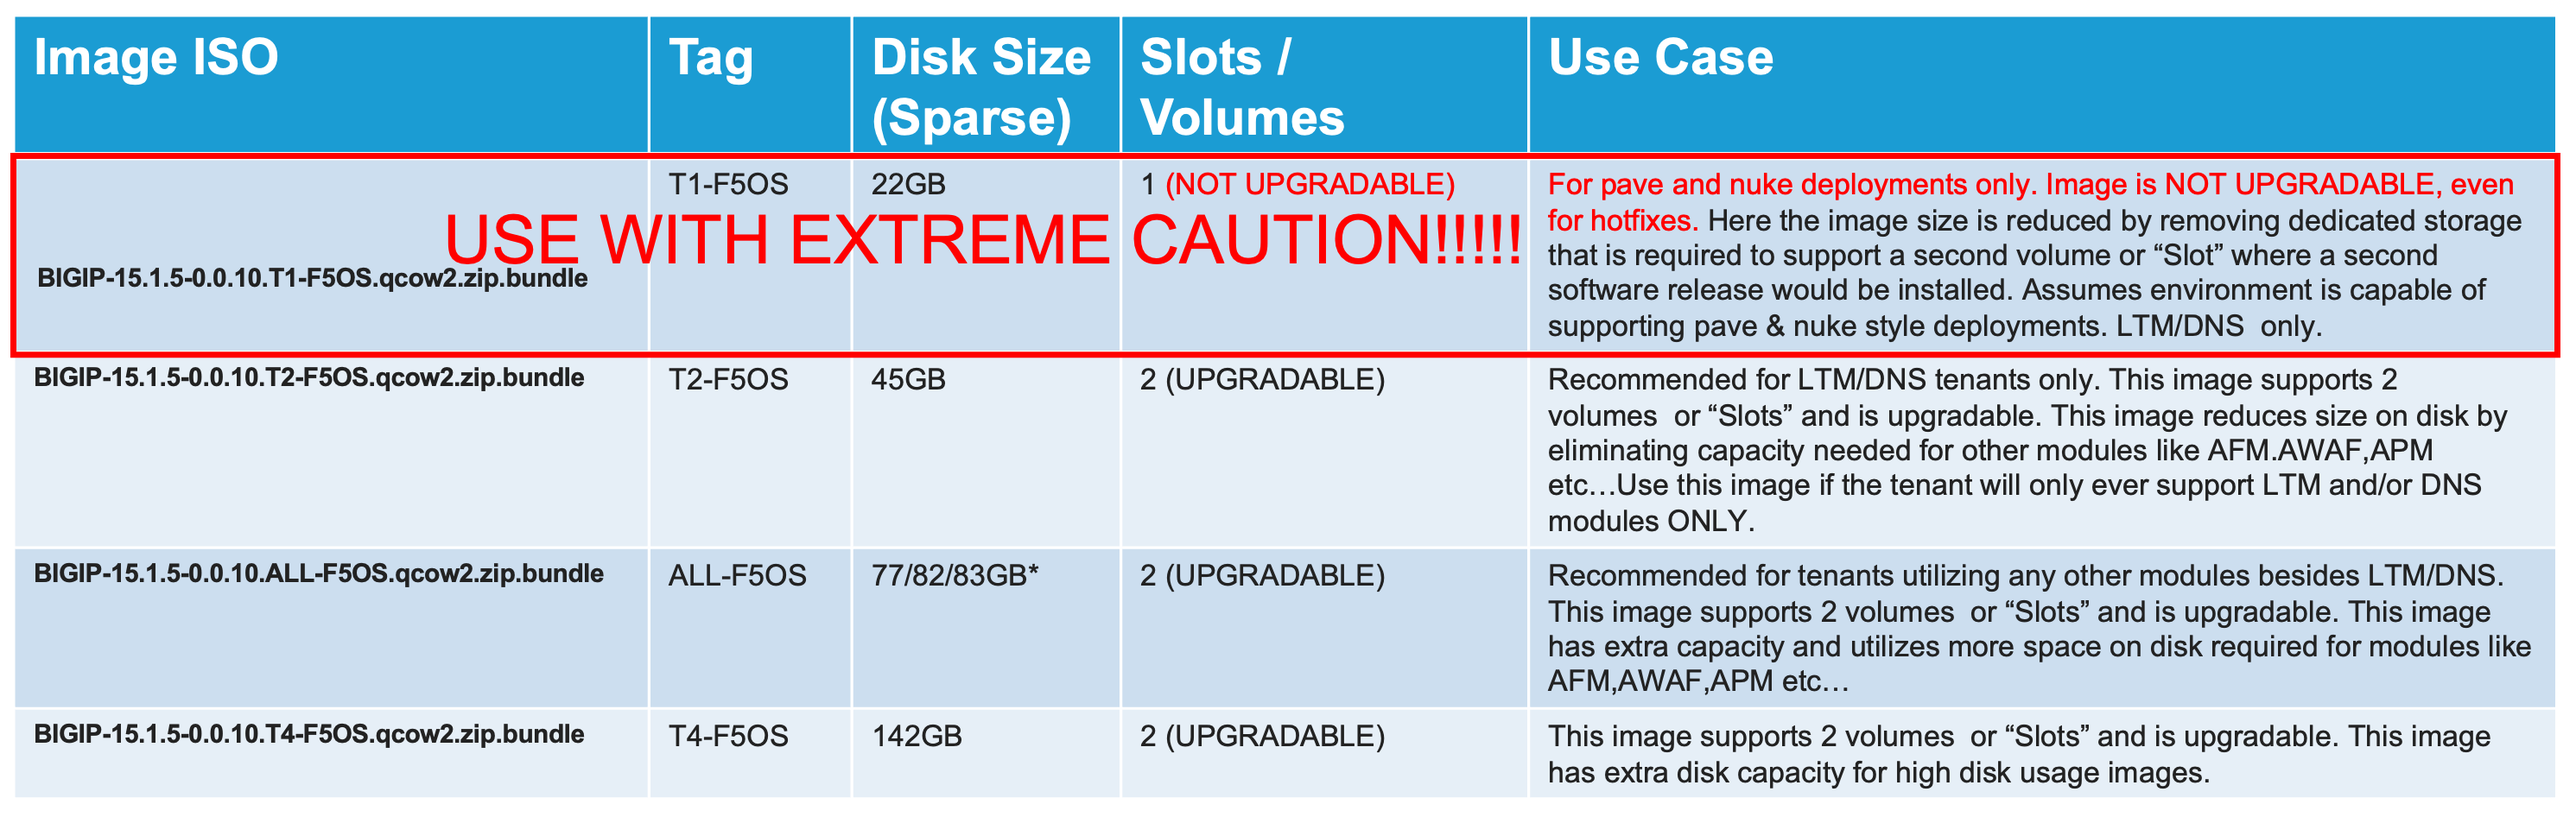
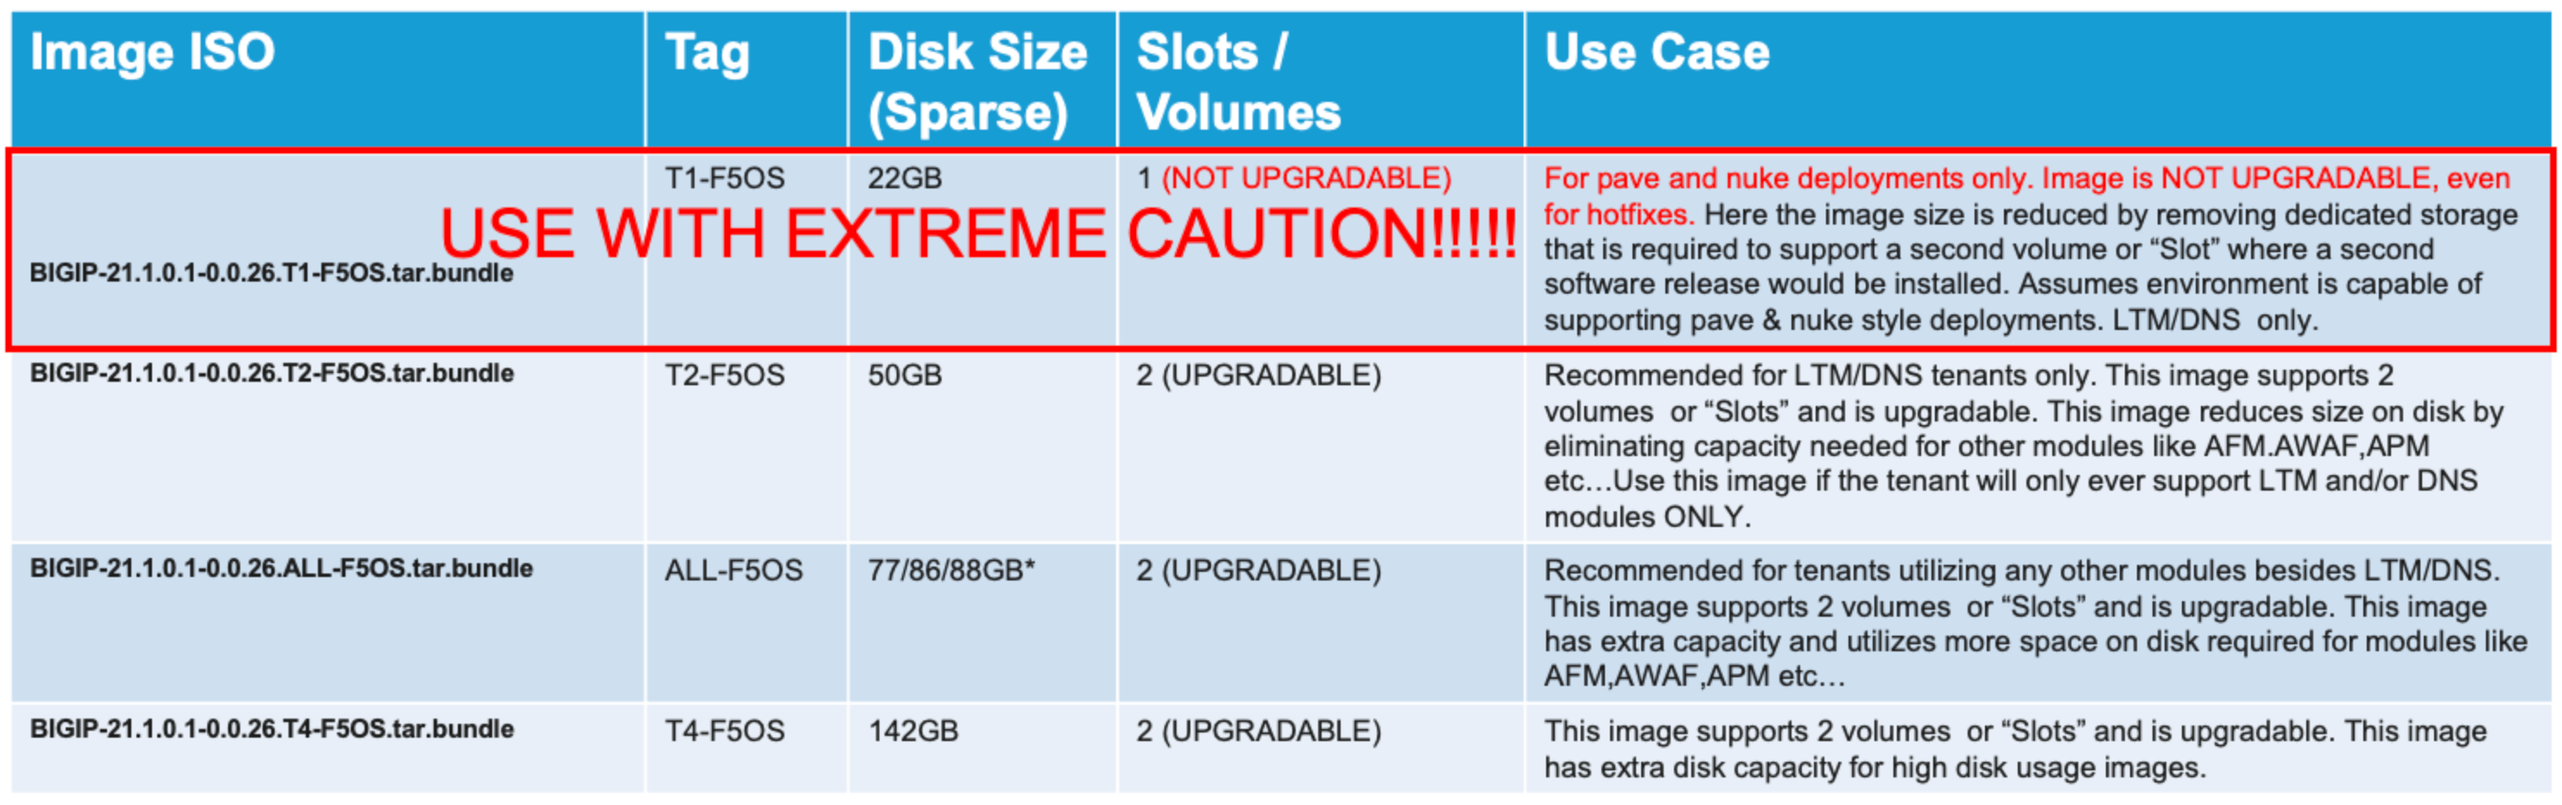
disk images

Changed region(s): [[0.0, 0.0, 1.0, 0.9646]]

diff --git a/docs/rseries_deploying_a_tenant.rst b/docs/rseries_deploying_a_tenant.rst
@@ -44,7 +44,7 @@ The remaining images (T2-F5OS, ALL-F5OS, T4-F5OS) all support in-place upgrades 
 
 The **T2-F5OS** image is intended for a tenant that will run LTM and or DNS only, it is not suitable for tenants needing other modules provisioned (AVR may be an exception). This type of image is best suited in a high-density tenant environment where the number of tenants is going to be high per appliance and using minimum CPU resources (1 or 2 vCPUs per tenant). You may want to limit the amount of disk space each tenant can use as a means of ensuring the filesystem on the appliance does not become full. As an example, there is 1TB of disk space per r5000 and r10000 appliance, and 36 tenants each using the 142GB T4-F5OS image would lead to an over-provisioning situation. Because tenants are deployed in sparse mode which allows over-provisioning, this may not be an issue initially but could become a problem later in the tenant’s lifespan as it writes more data to the disk. To keep the tenants in check, you can deploy smaller T2-F5OS images which can consume 45GB each. LTM/DNS deployments use much less disk space than other BIG-IP modules, which do extensive local logging and utilize databases on disk.
 
-The **All-F5OS** image is suitable for any module configuration and supports a default of 77GB, with newer releases requiring either 82GB or 83GB (depending on the TMOS version) for the tenant. It is expected that the number of tenants per blade would be much less, as the module combinations that drive the need for more disk space typically require more CPU/memory which will artificially reduce the tenant count per appliance. Having a handful of 83GB or 156GB images per appliance should not lead to an out of space condition. There are some environments where some tenants may need more disk space, and the T4-F5OS image can provide for that. Now that Virtual Disk expansion utilities are available you can always grow the disk consumption later so starting small and expanding later is a good approach; it may be best to default using the T4-F5OS image (if tenant density is not too dense) as that is essentially the default size for vCMP deployments today. 
+The **All-F5OS** image is suitable for any module configuration and supports a minimum of 77/86/88GB for the tenant (depending on the TMOS version). It is expected that the number of tenants per appliance would be much less when using this image, as the module combinations that drive the need for more disk space typically require more CPU/memory, which will artificially reduce the tenant count per appliance. Having a handful of 88GB or 156GB images per blade should not lead to an out of space condition. There are some environments where some tenants may need more disk space and the T4 image can provide for that. There are some environments where some tenants may need more disk space, and the T4-F5OS image can provide for that. Now that Virtual Disk expansion utilities are available you can always grow the disk consumption later so starting small and expanding later is a good approach; it may be best to default using the T4-F5OS image (if tenant density is not too dense) as that is essentially the default size for vCMP deployments today. 
 
 The **T4-F5OS** image also supports any module combination but has additional disk capacity. If you intend to have lot of software images, databases for modules, run modules like SWG which utilize a lot of disk space, and local logging then the added capacity is recommended. More detail on the image types can be found in the following solution article.
 
